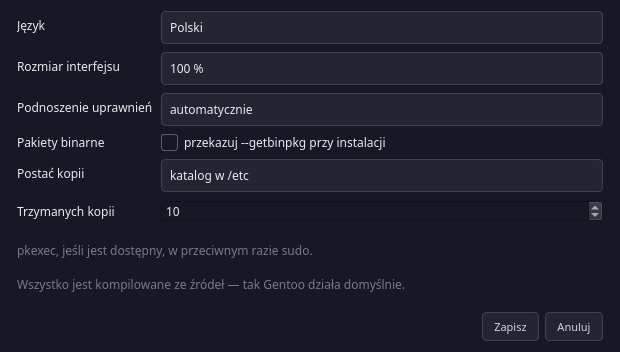
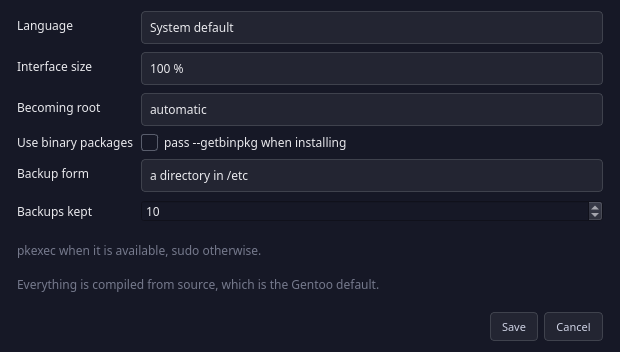
Retake the README's pictures
All eight dated from before 1.0.0: the interface in them is Polish, from when
the documentation was, and the Repositories screen they show does not exist any
more. Retaken in English, off-screen, against this machine's real tree.

Two for repositories rather than one, because that screen now answers two
questions in two tabs and one picture cannot hold both: ::guru with its
repos.conf section and the 2303 packages that come from it, and the catalogue
searched for "kde" with what enabling one of them would run. readme_shots.py
had to learn the new screen first — its shot_repos typed "kde" into what is now
the Configured tab's filter, which would have photographed an empty list.

The Settings dialog joins the table. It was already being generated and shown
nowhere, which is a strange place for the answer to "how does this become
root?" to live.

config-files.png is the one that stays as it was, Polish and old: this machine
has no ._cfg waiting, so the honest retake is the empty panel, and
Docs/02-ui-design.md §9 already says to keep the previous file when that
happens. It says which one and why now.

overlay-filter.png is deleted — nothing has referred to it since 0.1.0.

The README's note about the pictures said "1.3.0" for one revision, and
test_every_version_a_file_states_is_one_the_script_rewrites refused it: a
version in a file release.py does not rewrite is one the next bump leaves
stale. Reworded. That test earning its keep twice in one day is the argument
for it.

diff --git a/tools/readme_shots.py b/tools/readme_shots.py
@@ -83,6 +83,7 @@ SHOTS = (
     "repository-filter",
     "update",
     "repositories",
+    "repositories-available",
     "config-files",
     "settings",
 )
@@ -197,12 +198,38 @@ def shot_update(window: MainWindow, out: Path) -> None:
     capture(window, out, "update")
 
 
-def shot_repos(window: MainWindow, out: Path) -> None:
+def shot_repos(window: MainWindow, out: Path, repo: str) -> None:
+    """The Configured tab: a repository's own section, and what it brings.
+
+    An overlay rather than ``::gentoo``: the main repository is defined by the
+    profile and has no ``repos.conf`` section to show, which is half the point
+    of the panel.
+    """
     page = window.set_page("repos") or window.stack.currentWidget()
     settle()
-    page._search.setText("kde")
+    if repo in page._rows:
+        page.select(repo)
+    else:
+        print(f"  … no ::{repo} on this system; capturing whatever is selected", file=sys.stderr)
+    # The package list comes out of the search index, which may still be building.
     settle()
     capture(window, out, "repositories")
+
+
+def shot_repos_available(window: MainWindow, out: Path, query: str) -> None:
+    """The Available tab: the catalogue, and what enabling one of them runs."""
+    page = window.set_page("repos") or window.stack.currentWidget()
+    settle()
+    page.set_tab(page.AVAILABLE)
+    page._search.setText(query)
+    settle()
+    offers = list(page._offer_rows.values())
+    if offers:
+        page.select_offer(offers[0].entry)
+    else:
+        print(f"  … nothing in the catalogue matches {query!r}", file=sys.stderr)
+    settle()
+    capture(window, out, "repositories-available")
 
 
 def shot_cfgfiles(window: MainWindow, out: Path) -> None:
@@ -238,6 +265,16 @@ def main(argv: list[str]) -> int:
         default="dev-libs/zydis::guru",
         help="the two-repository package for the filter shot, as cat/pkg::repo",
     )
+    parser.add_argument(
+        "--overlay",
+        default="guru",
+        help="the configured overlay to show, with its packages",
+    )
+    parser.add_argument(
+        "--catalogue",
+        default="kde",
+        help="what to search the catalogue for in the Available shot",
+    )
     parser.add_argument("--only", action="append", choices=SHOTS, help="just these shots")
     options = parser.parse_args(argv[1:])
 
@@ -268,7 +305,9 @@ def main(argv: list[str]) -> int:
     if "repository-filter" in wanted:
         shot_repo_filter(window, out, package, repo)
     if "repositories" in wanted:
-        shot_repos(window, out)
+        shot_repos(window, out, options.overlay)
+    if "repositories-available" in wanted:
+        shot_repos_available(window, out, options.catalogue)
 
     # The step lists and the preview table want the extra forty pixels.
     size(options.tall)

diff --git a/README.md b/README.md
@@ -22,13 +22,16 @@ Written in Python 3 with PyQt6. Bilingual: **Polish and English**.
 |---|---|
 | ![Search and install](Docs/screenshots/search-and-install.png) | ![USE flags](Docs/screenshots/use-flags.png) |
 | **Search and install** — results from four repositories, package details, versions with their keywords | **USE flags** — where each flag's value comes from, and exactly what turning it on changes |
-| ![Repository filter](Docs/screenshots/repository-filter.png) | ![Repositories](Docs/screenshots/repositories.png) |
-| **One repository at a time** — the same package lives in `::gentoo` and in `::guru`; the badge you pick decides which one the install comes from | **Repositories** — the `repos.conf` section verbatim, and the catalogue of 459 overlays |
-| ![System update](Docs/screenshots/update.png) | ![Configuration files](Docs/screenshots/config-files.png) |
-| **System update** — six steps, with a preview table built from the output of `emerge -pv` | **`._cfg` files** — the difference, and three answers |
+| ![Repositories](Docs/screenshots/repositories.png) | ![Available repositories](Docs/screenshots/repositories-available.png) |
+| **Repositories** — the `repos.conf` section verbatim, and the 2303 packages that come from `::guru` and nowhere else | **Adding one** — the rest of Gentoo's catalogue, who runs each of them, and the two commands enabling one would run |
+| ![Repository filter](Docs/screenshots/repository-filter.png) | ![System update](Docs/screenshots/update.png) |
+| **One repository at a time** — the same package lives in `::gentoo` and in `::guru`; the badge you pick decides which one the install comes from | **System update** — six steps, with a preview table built from the output of `emerge -pv` |
+| ![Configuration files](Docs/screenshots/config-files.png) | ![Settings](Docs/screenshots/settings.png) |
+| **`._cfg` files** — the difference, and three answers | **Settings** — language, interface size, how the application becomes root, and how many backups to keep |
 
-*(The pictures were taken with the interface in Polish. `python tools/readme_shots.py` retakes
-them; it now defaults to English.)*
+*(`python tools/readme_shots.py` retakes them. All but one are current and in English; the `._cfg`
+one is older and Polish, because that screen has nothing to show on a machine with no
+configuration file waiting, and an empty panel is a worse picture than a dated one.)*
 
 ## The principles this application stands on
 

diff --git a/Docs/02-ui-design.md b/Docs/02-ui-design.md
@@ -244,7 +244,8 @@ graphical session and do not disturb the settings of a running application: the 
 | `search-and-install.png` | the query `mpv`, with a package selected | automatic |
 | `use-flags.png` | `media-video/mpv`, the `vulkan` flag unfolded | automatic |
 | `repository-filter.png` | `dev-libs/zydis` narrowed to `::guru` | automatic |
-| `repositories.png` | the configured repositories + the catalogue, searching for `kde` | automatic |
+| `repositories.png` | the Configured tab: `::guru`, its `repos.conf` section and its packages | automatic |
+| `repositories-available.png` | the Available tab: the catalogue searched for `kde`, one of them selected | automatic |
 | `update.png` | step 3 with the preview table filled in | **needs a system with pending updates** |
 | `config-files.png` | a pending `._cfg` with its difference | **needs a system with a pending `._cfg`** |
 | `settings.png` | the Settings dialog | automatic |
@@ -262,6 +263,7 @@ the machine: on a system that is up to date and has no pending `._cfg`, they com
 panels. When that happens it is better to keep the previous files than to put a picture that
 shows nothing into the README.
 
-The pictures currently in the repository were taken with the interface in Polish, from when the
-documentation was Polish too. `--lang` now defaults to `en`, so the next refresh brings them
-into line with this documentation.
+All of them were retaken for 1.3.0, in English, except `config-files.png`: this machine has no
+`._cfg` waiting, so the shot came out as the empty panel the paragraph above warns about and the
+older Polish picture was kept. It is the one file in the set that still shows the interface from
+before 1.0.0, and the first refresh on a machine with a pending configuration file replaces it.

diff --git a/CHANGELOG.md b/CHANGELOG.md
@@ -9,6 +9,18 @@ tag was made.
 
 ## [Unreleased]
 
+### Changed
+
+- **The README's pictures are the application as it is now.** Every one of them dated from before
+  1.0.0 — the interface was Polish then, and the Repositories screen in them no longer exists.
+  Retaken in English, with two for repositories rather than one, since the screen now answers two
+  questions in two tabs, and the Settings dialog added to the table: it was already being
+  generated and shown nowhere. `config-files.png` is the exception and stays as it was, because
+  this machine has no `._cfg` waiting and the honest shot is an empty panel.
+  `tools/readme_shots.py` drives the new screen — its old `_search.setText("kde")` would now type
+  into the Configured tab's filter and photograph an empty list — and `overlay-filter.png`, which
+  nothing has referred to since 0.1.0, is gone.
+
 ## [1.3.0] — 2026-09-01
 
 ### Removed
